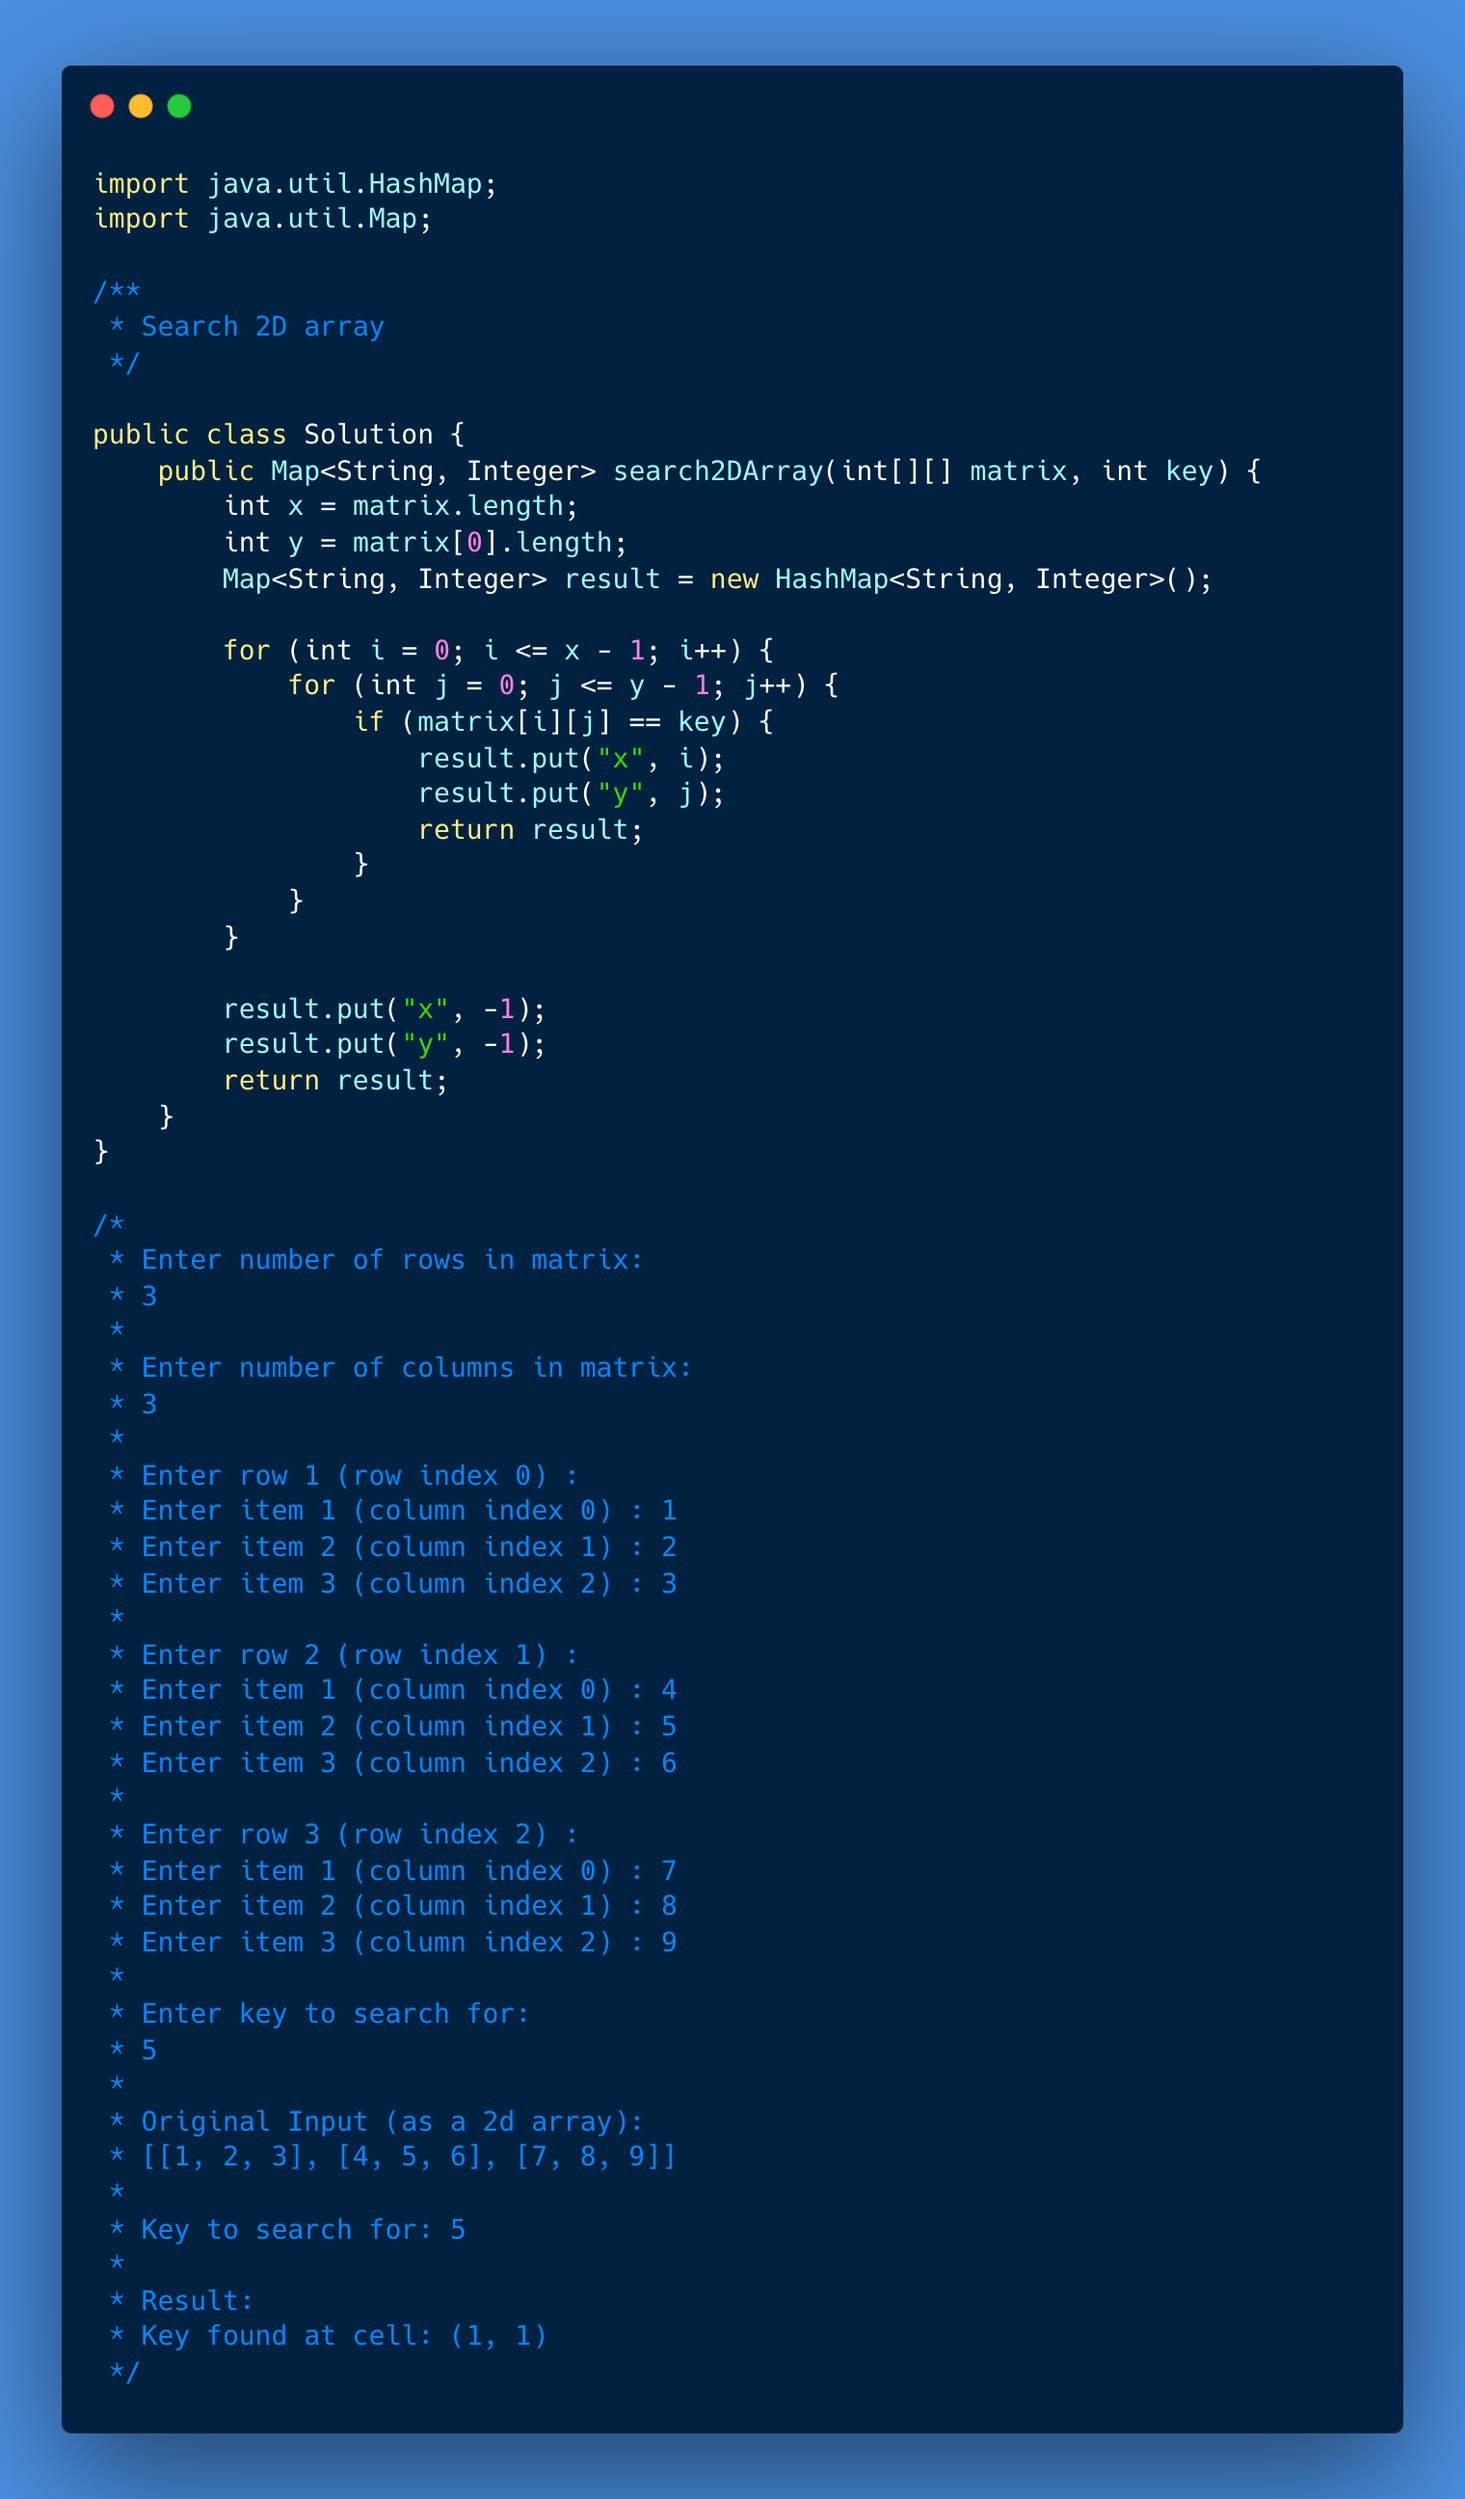
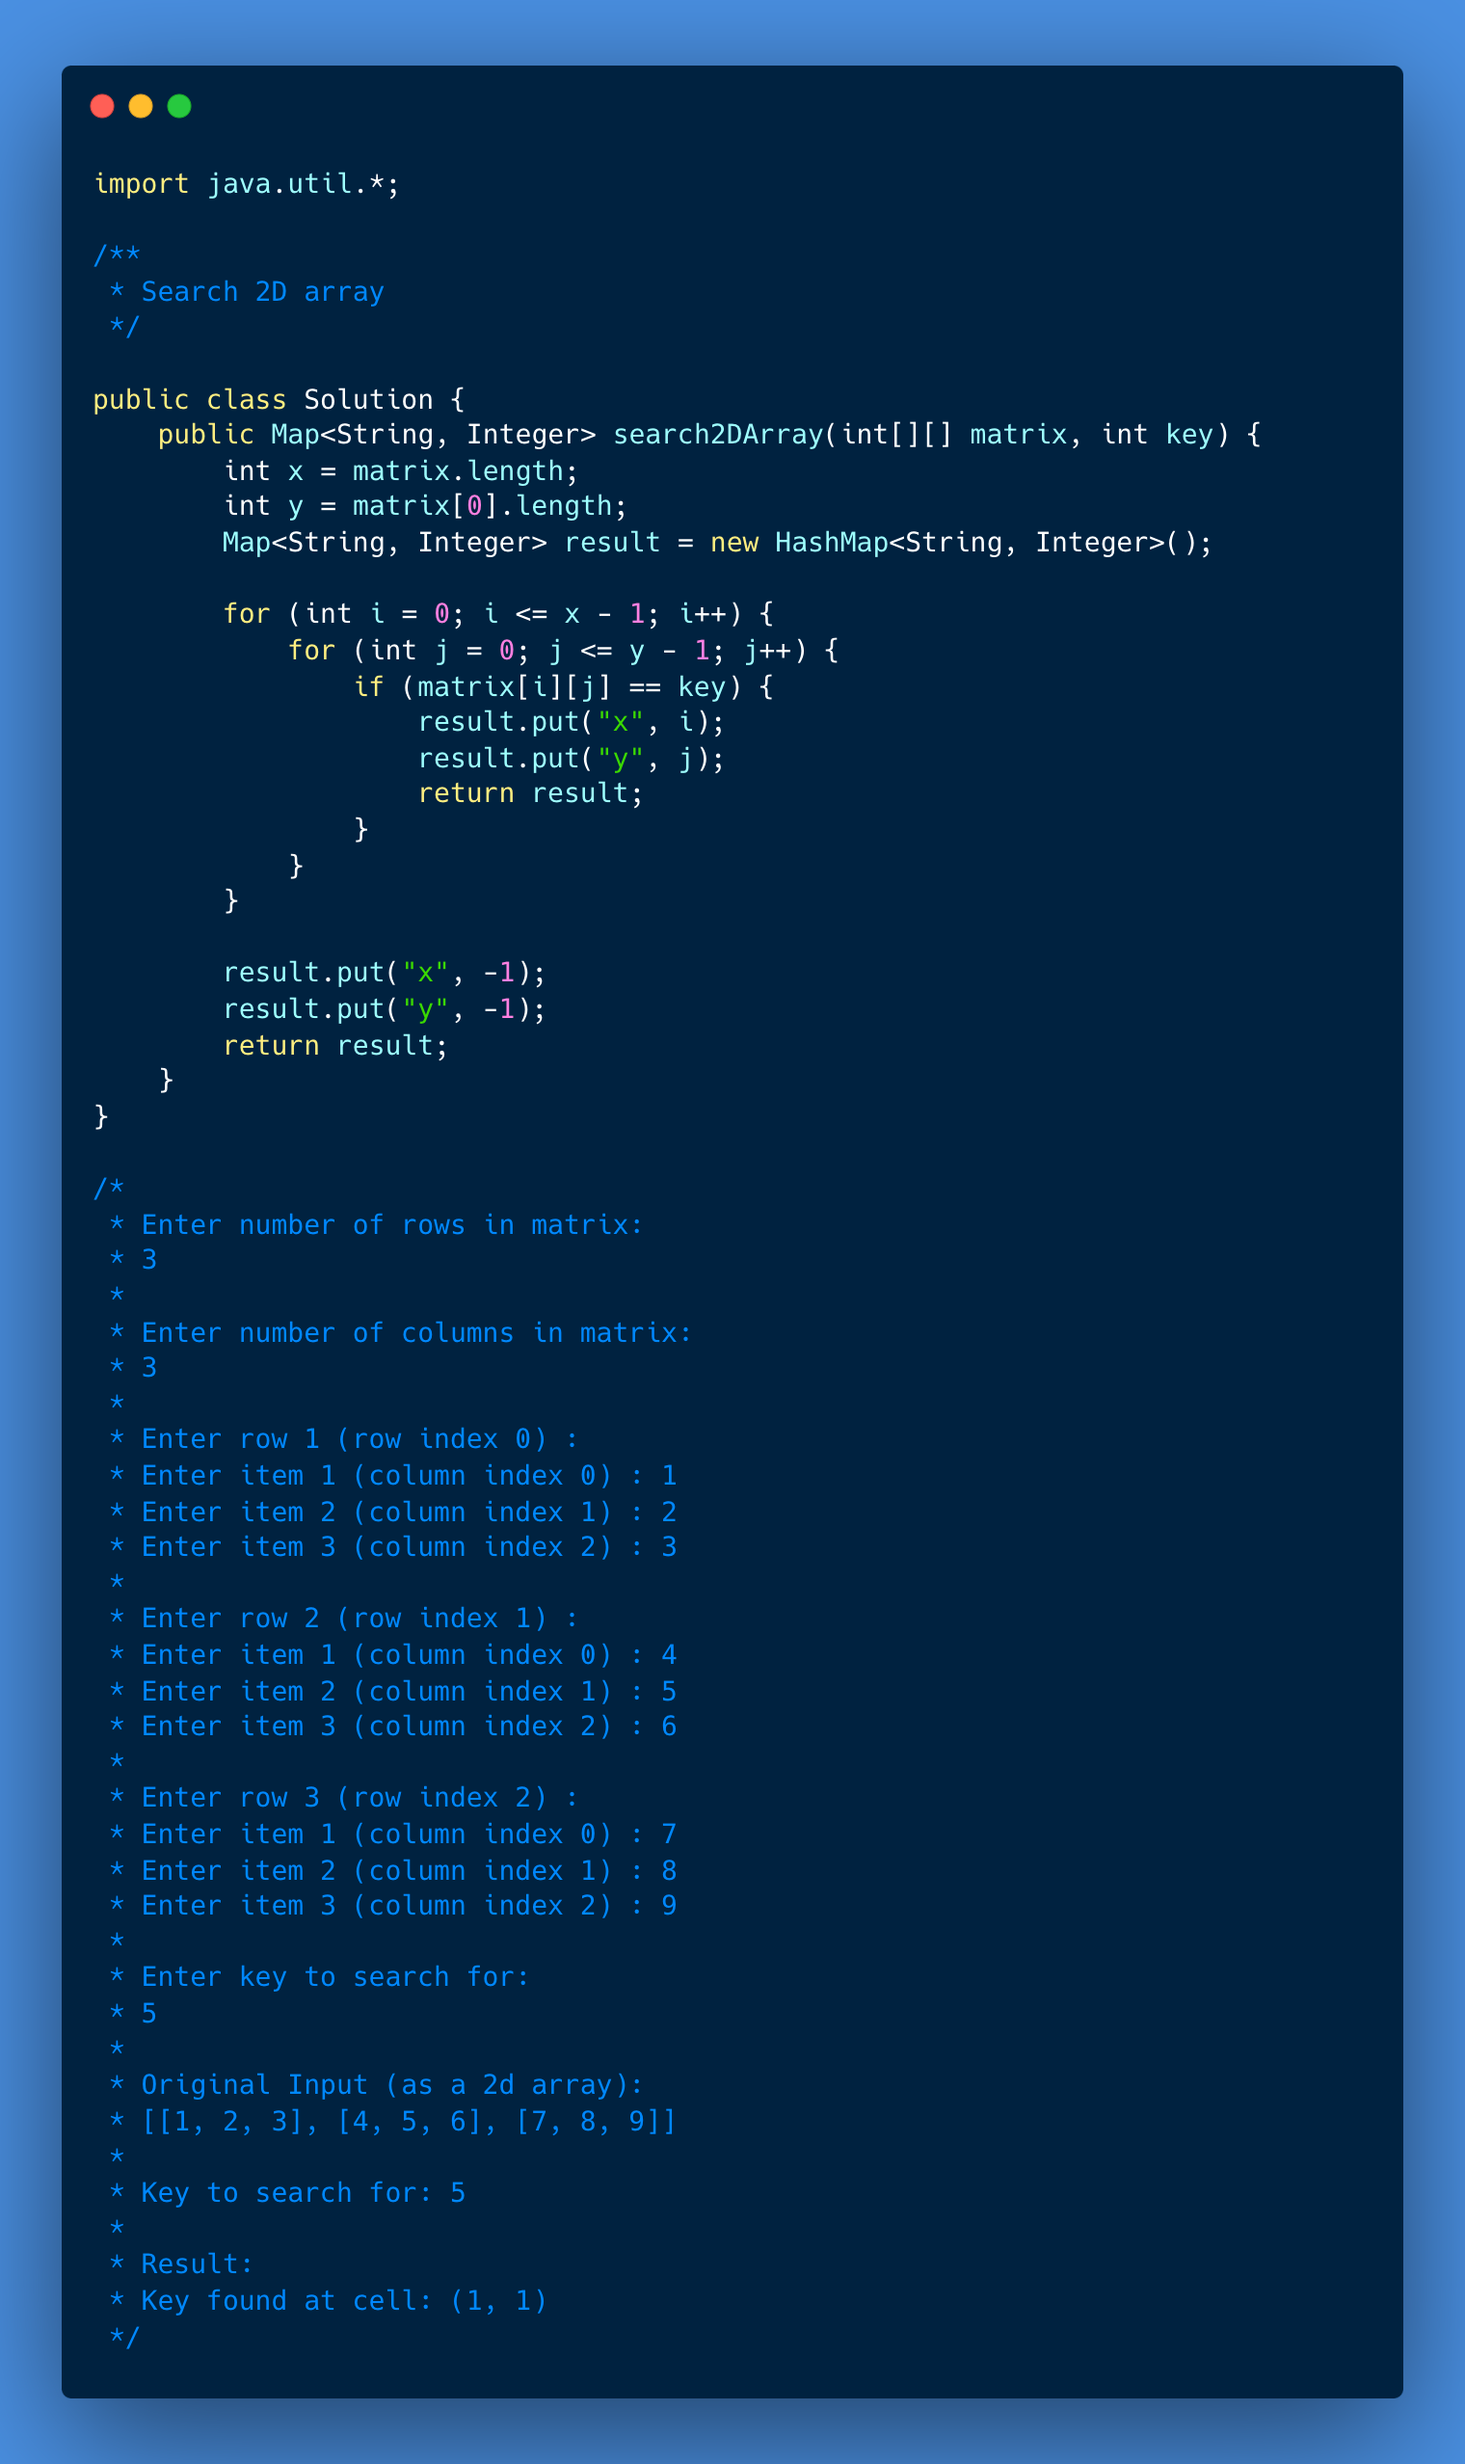
search 2d array code update

diff --git a/060-search-2d-array/001-solution/Solution.java b/060-search-2d-array/001-solution/Solution.java
@@ -1,5 +1,4 @@
-import java.util.HashMap;
-import java.util.Map;
+import java.util.*;
 
 /**
  * Search 2D array
